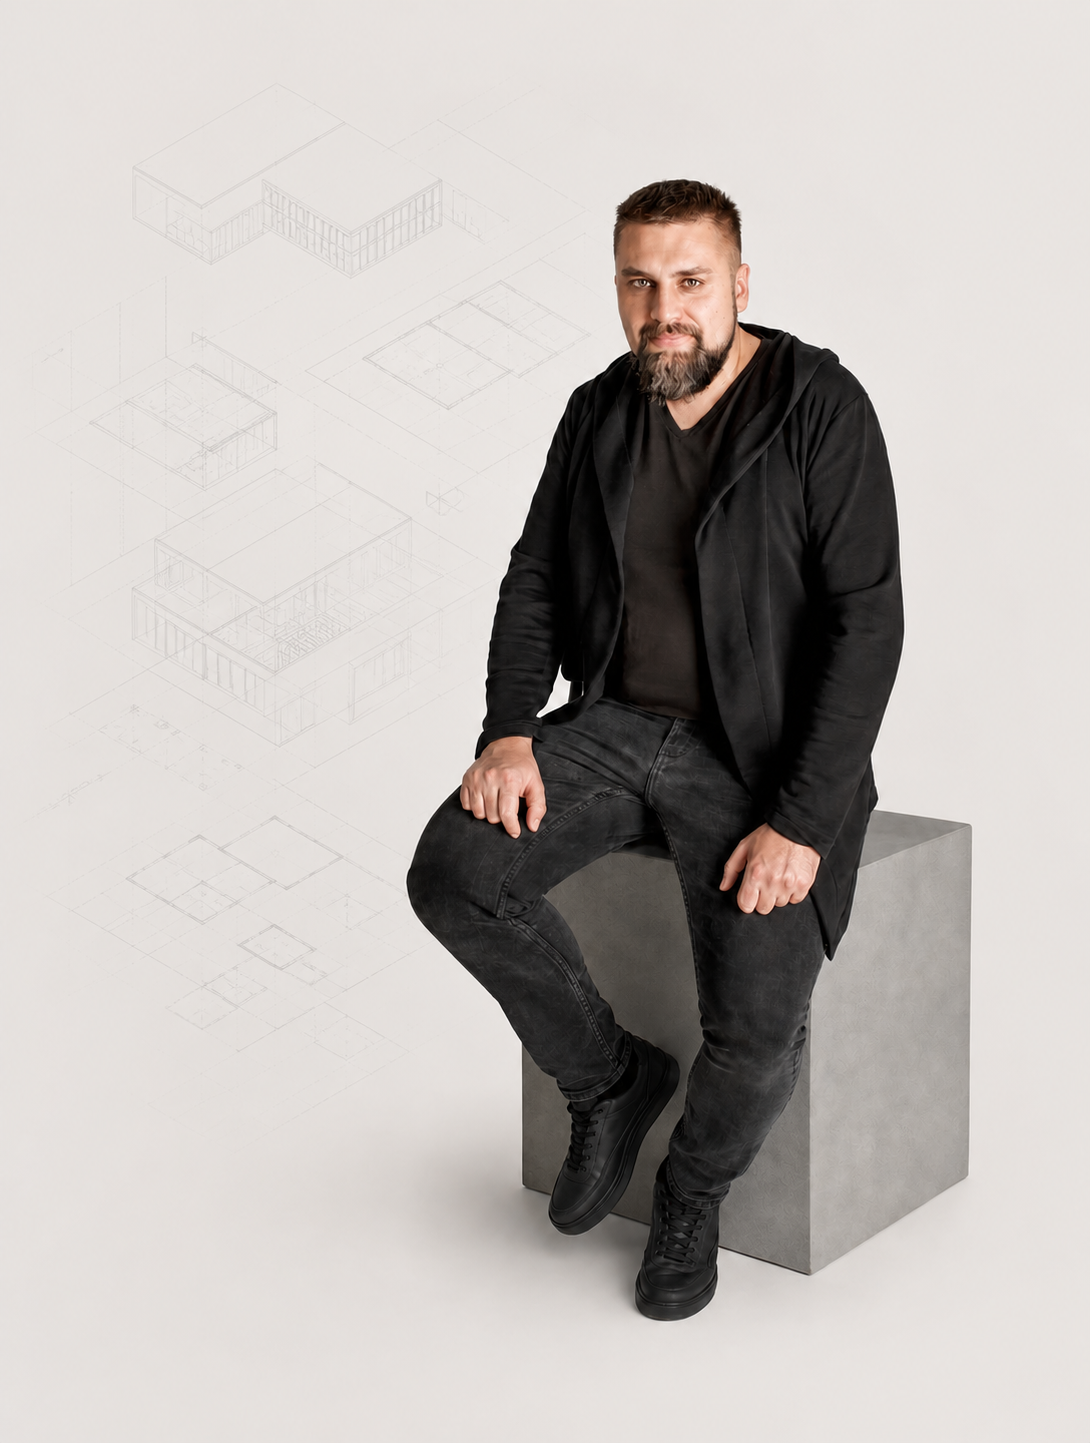
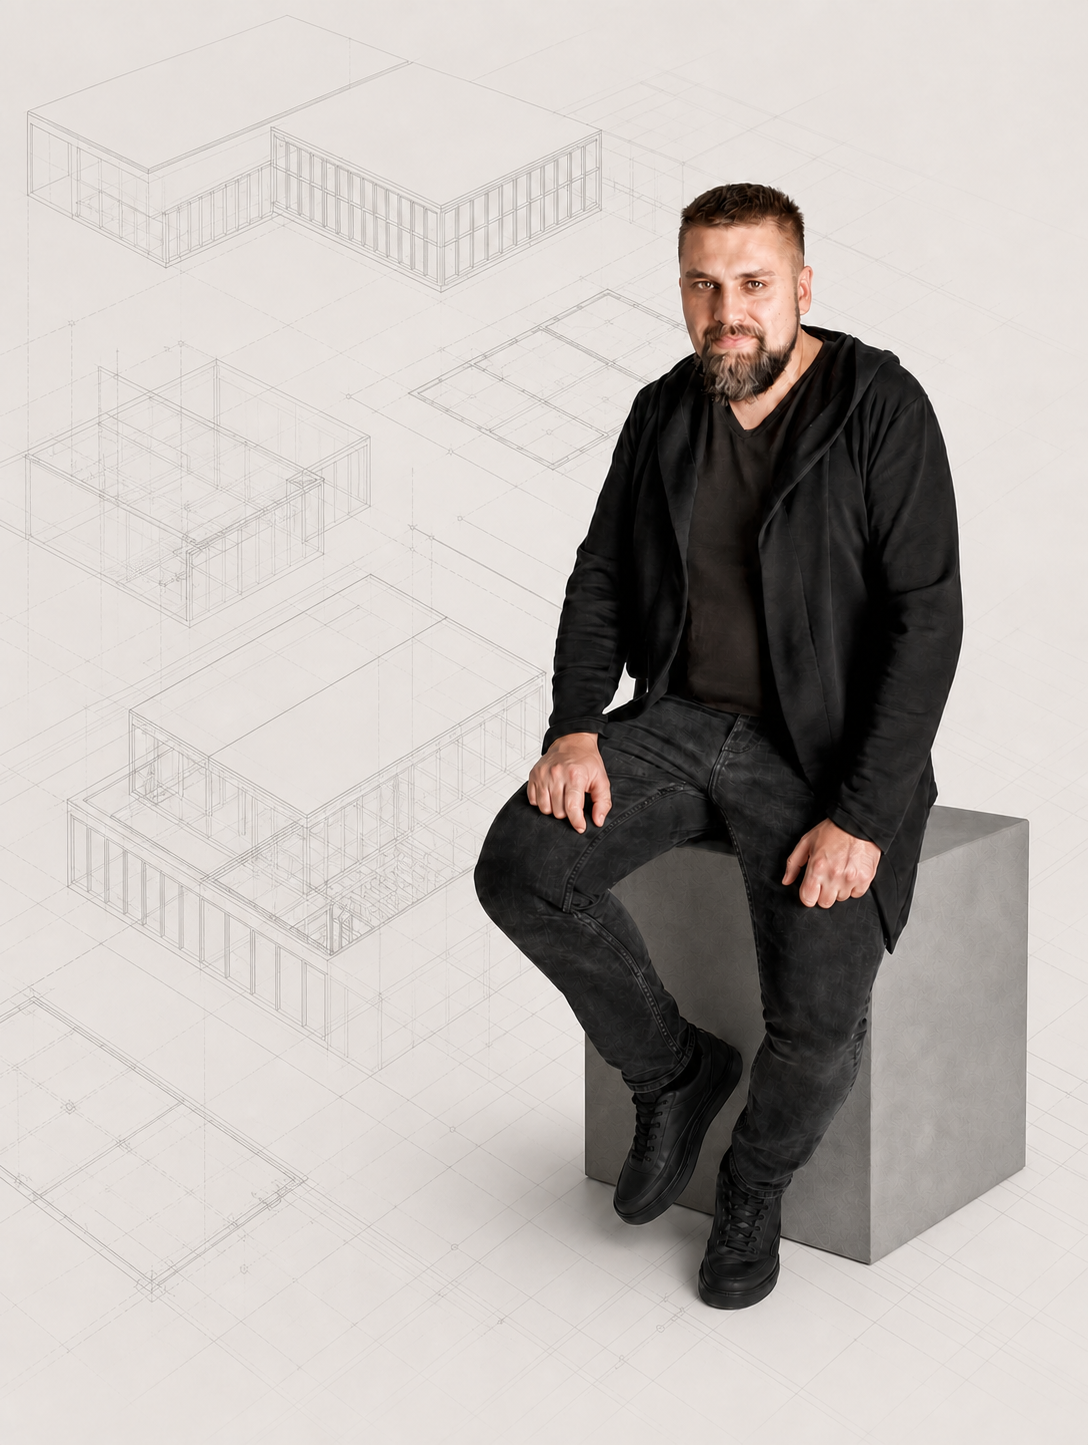
Expand hero and architectural backdrop

diff --git a/app/globals.css b/app/globals.css
@@ -164,10 +164,19 @@ a:focus-visible {
 
 .hero {
   position: relative;
-  min-height: min(820px, calc(100svh - 88px));
+  min-height: clamp(880px, calc(100svh - 88px), 980px);
   display: grid;
   grid-template-columns: minmax(0, 1.05fr) minmax(360px, 0.95fr);
   align-items: stretch;
+  background: var(--hero-background);
+  isolation: isolate;
+}
+
+.hero::before {
+  content: "";
+  position: absolute;
+  z-index: -1;
+  inset: 0 calc(var(--space-page) * -1);
   background: var(--hero-background);
 }
 
@@ -284,7 +293,7 @@ a:focus-visible {
 
 .hero-visual {
   position: relative;
-  min-height: min(820px, calc(100svh - 88px));
+  min-height: clamp(880px, calc(100svh - 88px), 980px);
   overflow: hidden;
   background: var(--hero-background);
 }
@@ -300,8 +309,8 @@ a:focus-visible {
 }
 
 .hero-portrait {
-  object-fit: cover;
-  object-position: center;
+  object-fit: contain;
+  object-position: center bottom;
   filter: saturate(0.82) contrast(1.03);
 }
 
